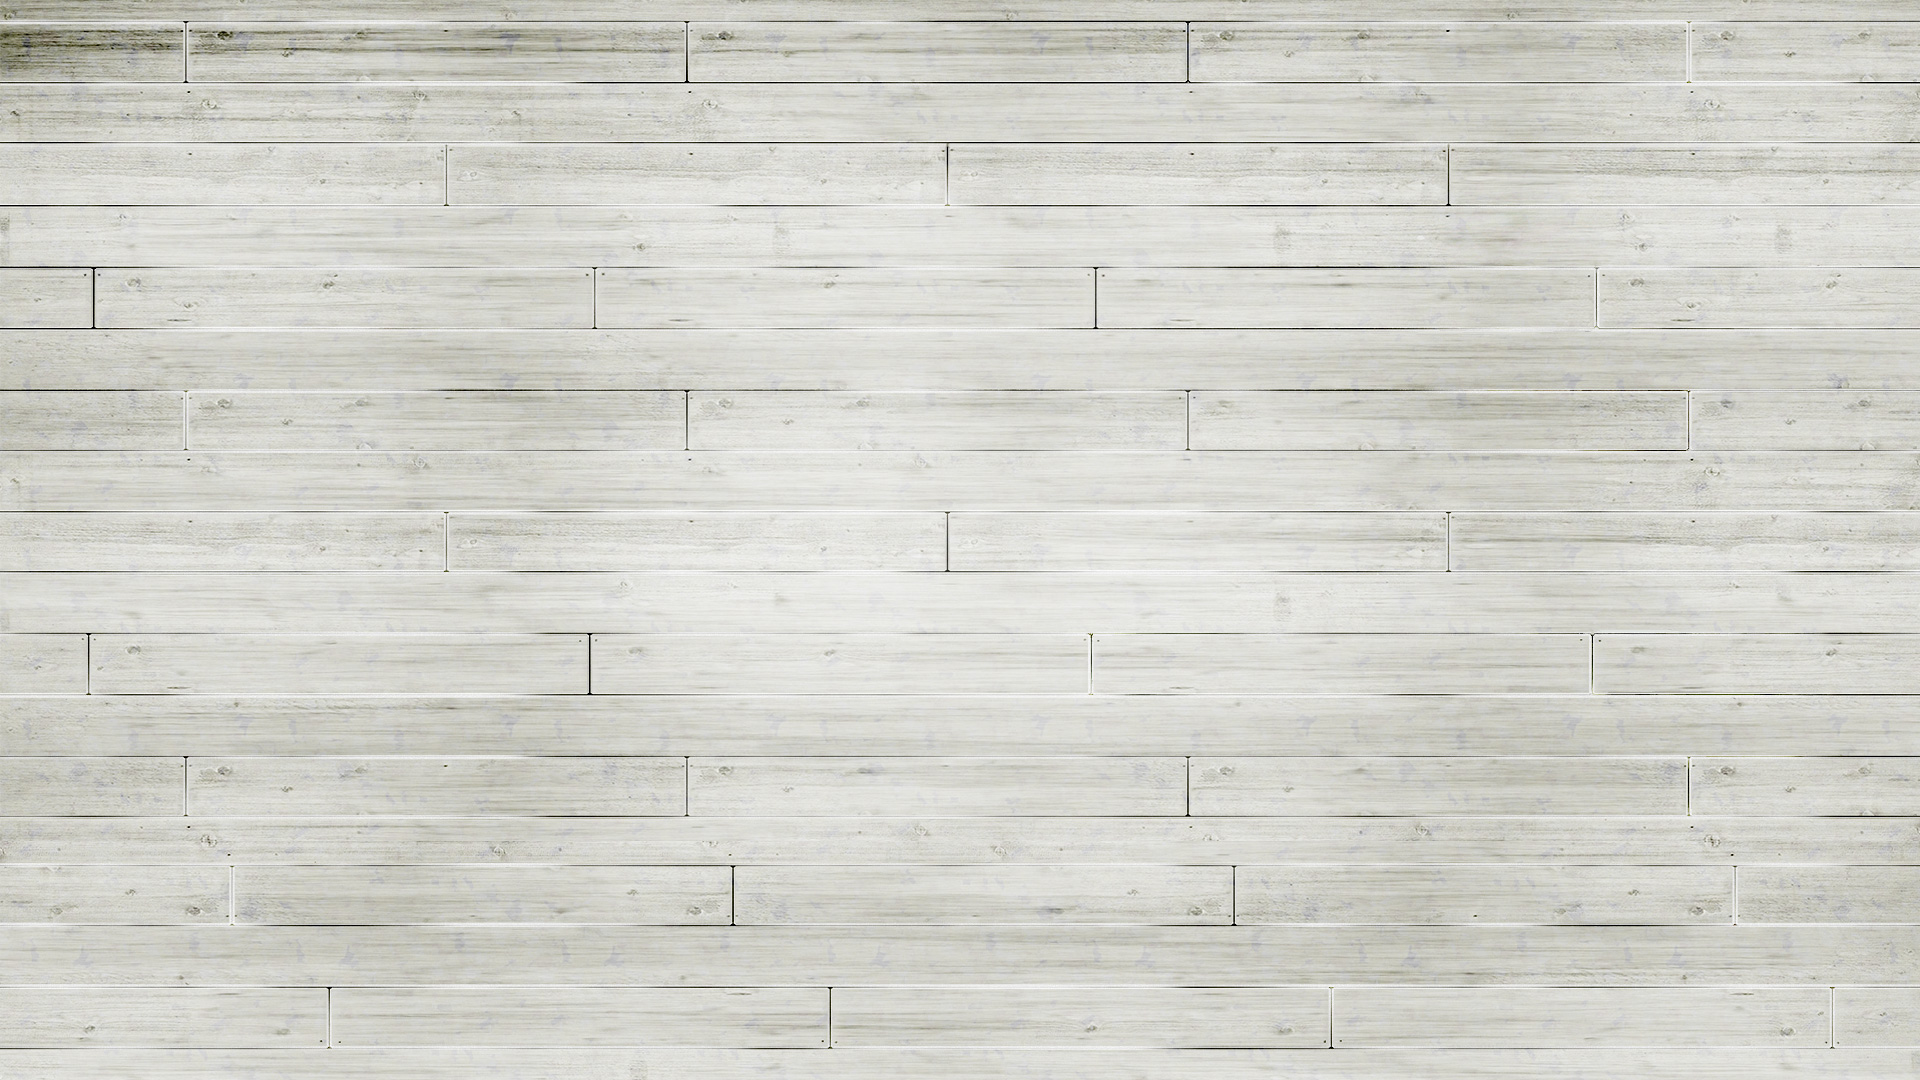
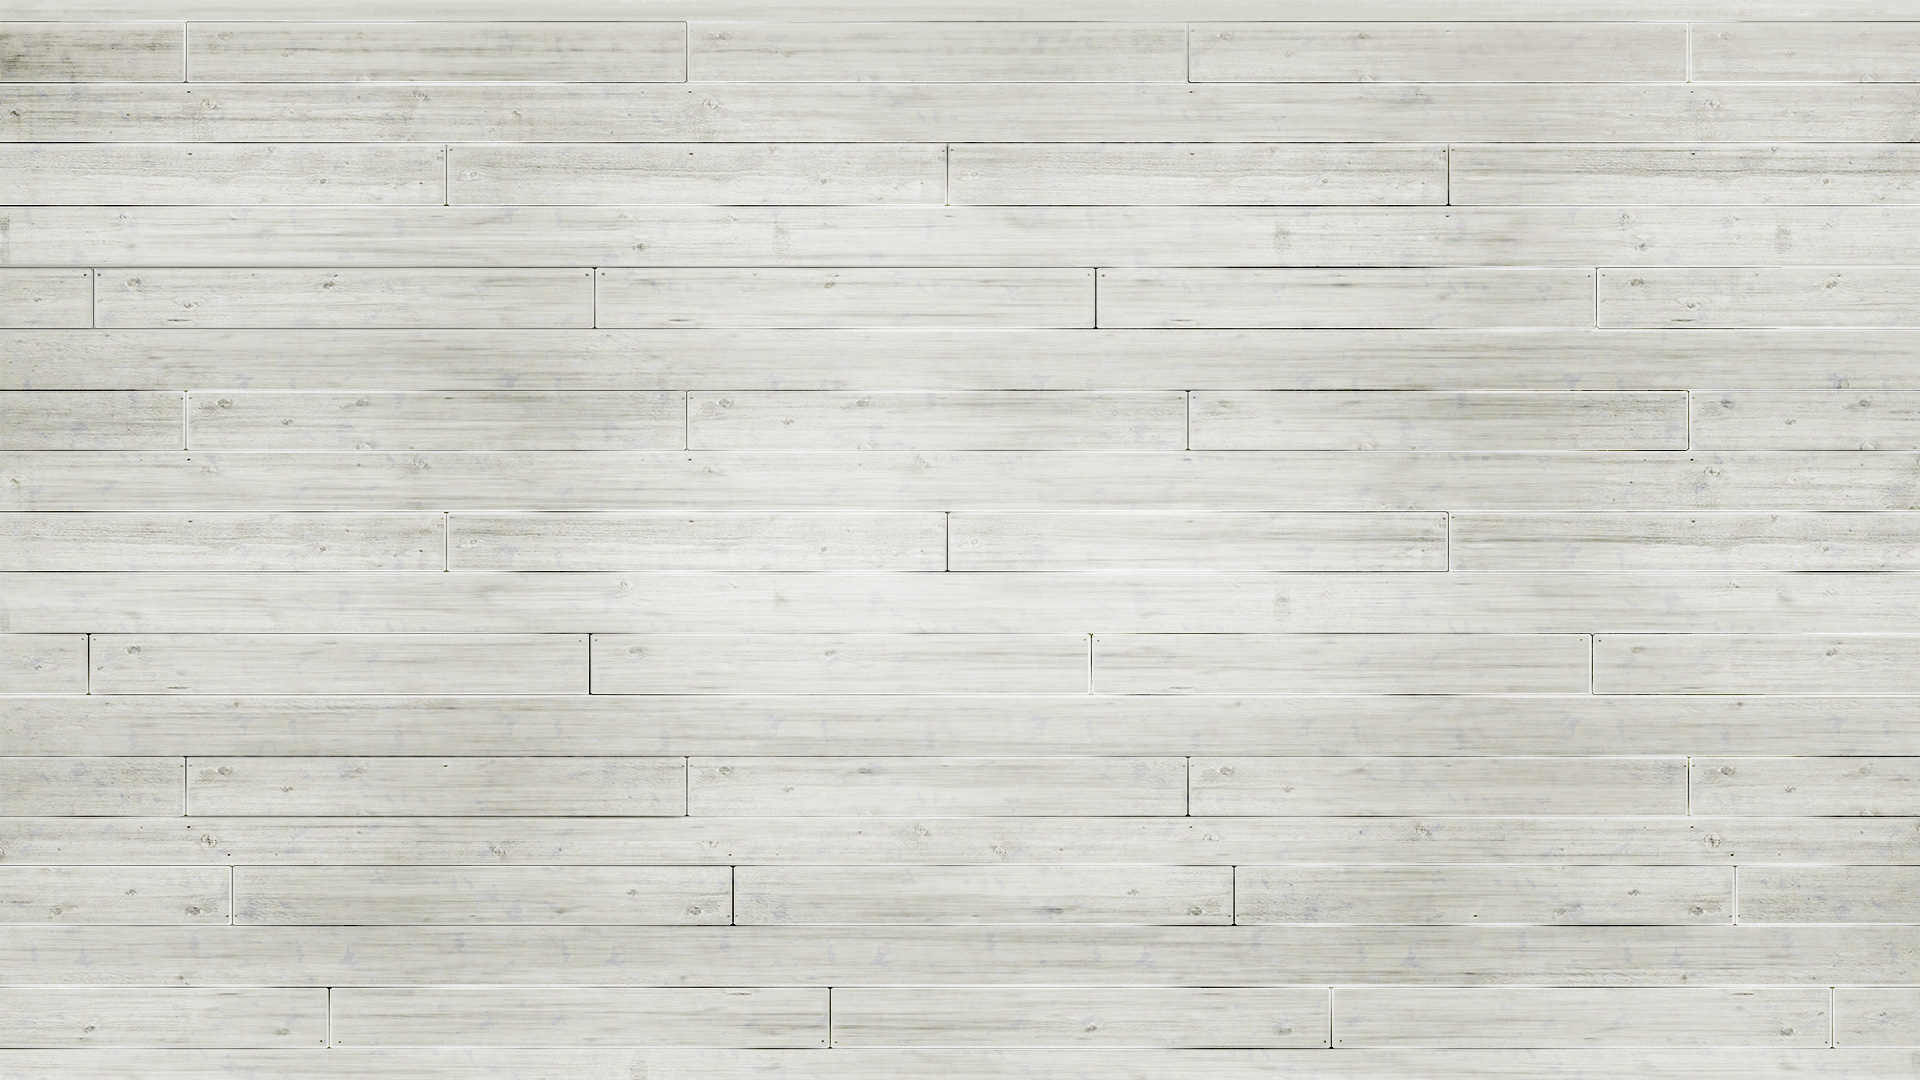
quick background fix for firefox

diff --git a/app/assets/stylesheets/application.scss b/app/assets/stylesheets/application.scss
@@ -30,7 +30,7 @@ html {
 
 @-moz-document url-prefix() {
   html {
-    background: $html-bg-color url("/images/background/background_main.jpg") repeat center center;
+    background: $html-bg-color url("/images/background/background_main-2.jpg") repeat center center;
     background-size: 100%;
   }
 }

diff --git a/app/assets/stylesheets/admin/_pages.scss b/app/assets/stylesheets/admin/_pages.scss
@@ -37,6 +37,9 @@
   &:nth-child(1) {
     padding-left: 0rem;
   }
+  &:last-child {
+    border-right: none;
+  }
   &.disabled {
     color: #aaa;
     cursor: not-allowed;
